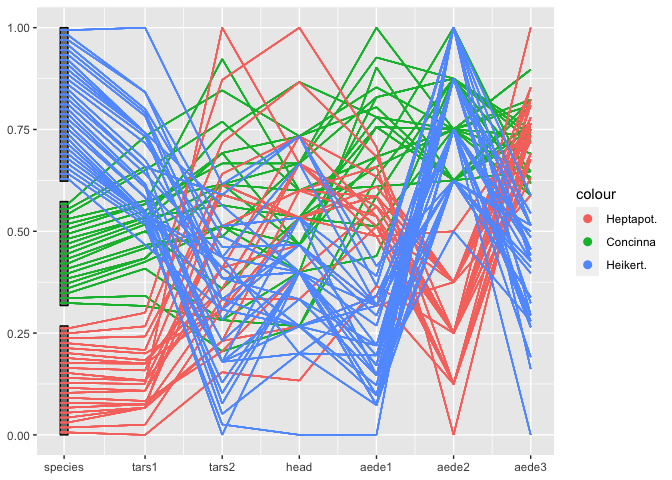
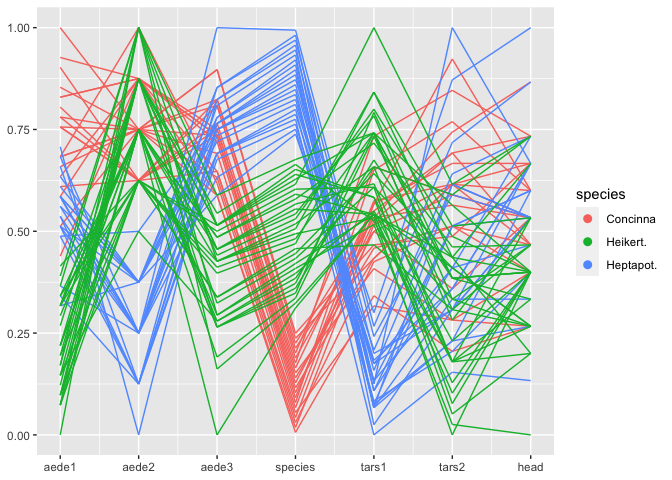
using tidy selection ... for now

diff --git a/README.md b/README.md
@@ -1,7 +1,7 @@
 ---
 title: "ggpcp"
 author: "Yawei Ge, Heike Hofmann"
-date: "August 08, 2019"
+date: "August 09, 2019"
 output: 
   html_document:
     keep_md: true
@@ -65,92 +65,8 @@ select_helpers`
 
 ```r
 flea %>%
-  ggplot(aes(colour = species, vars=product(aede1, aede2, aede3))) + 
+  ggplot(aes(colour = species, vars=product(aede1, aede2, aede1, aede3))) + 
   geom_pcp2()
-```
-
-```
-## Called from: geom_pcp2()
-## debug: ll <- layer(data = data, mapping = mapping, stat = stat, geom = GeomPcp2, 
-##     position = position, show.legend = show.legend, inherit.aes = inherit.aes, 
-##     params = list(method = method, freespace = freespace, boxwidth = boxwidth, 
-##         rugwidth = rugwidth, interwidth = interwidth, breakpoint = breakpoint, 
-##         arrow = arrow, arrow.fill = arrow.fill, lineend = lineend, 
-##         linejoin = linejoin, na.rm = na.rm, ...))
-## debug: defaults <- function(x, y) c(x, y[setdiff(names(y), names(x))])
-## debug: ll$compute_aesthetics = function(self, data, plot) {
-##     browser()
-##     if (!is.null(plot$mapping$vars)) 
-##         plot$mapping <- plot$mapping[-grep("vars", names(plot$mapping))]
-##     if (self$inherit.aes) {
-##         aesthetics <- defaults(self$mapping, plot$mapping)
-##     }
-##     else {
-##         aesthetics <- self$mapping
-##     }
-##     set <- names(aesthetics) %in% names(self$aes_params)
-##     calculated <- ggplot2:::is_calculated_aes(aesthetics)
-##     aesthetics <- aesthetics[!set & !calculated]
-##     if (!is.null(self$geom_params$group)) {
-##         aesthetics[["group"]] <- self$aes_params$group
-##     }
-##     ggplot2:::scales_add_defaults(plot$scales, data, aesthetics, 
-##         plot$plot_env)
-##     evaled <- lapply(aesthetics, rlang::eval_tidy, data = data)
-##     evaled <- compact(evaled)
-##     ggplot2:::warn_for_aes_extract_usage(aesthetics, data[setdiff(names(data), 
-##         "PANEL")])
-##     nondata_cols <- ggplot2:::check_nondata_cols(evaled)
-##     if (length(nondata_cols) > 0) {
-##         msg <- paste0("Aesthetics must be valid data columns. Problematic aesthetic(s): ", 
-##             paste0(vapply(nondata_cols, function(x) {
-##                 paste0(x, " = ", as_label(aesthetics[[x]]))
-##             }, character(1)), collapse = ", "), ". \nDid you mistype the name of a data column or forget to add stat()?")
-##         stop(msg, call. = FALSE)
-##     }
-##     n <- nrow(data)
-##     if (n == 0) {
-##         if (length(evaled) == 0) {
-##             n <- 0
-##         }
-##         else {
-##             n <- max(vapply(evaled, length, integer(1)))
-##         }
-##     }
-##     ggplot2:::check_aesthetics(evaled, n)
-##     if (ggplot2:::empty(data) && n > 0) {
-##         evaled$PANEL <- 1
-##     }
-##     else {
-##         evaled$PANEL <- data$PANEL
-##     }
-##     evaled <- lapply(evaled, unname)
-##     evaled <- ggplot2:::as_gg_data_frame(evaled)
-##     evaled <- ggplot2:::add_group(evaled)
-##     evaled
-## }
-## debug: ll$setup_layer <- function(self, data, plot) {
-##     browser()
-##     aes_vars <- plot$mapping$vars
-##     if (is.null(aes_vars)) 
-##         aes_vars <- self$mapping$vars
-##     if (!is.null(aes_vars)) {
-##         if (!is.null(self$mapping$vars)) 
-##             aes_vars <- rlang::eval_tidy(self$mapping$vars, data = data)
-##         if (!is.null(plot$mapping$vars)) 
-##             aes_vars <- rlang::eval_tidy(plot$mapping$vars, data = data)
-##         var_x <- paste0("x__", as.character(aes_vars))
-##     }
-##     if (is.null(self$mapping)) 
-##         self$mapping <- aes()
-##     for (i in seq_along(var_x)) {
-##         self$mapping[[var_x[i]]] <- aes_vars[[i]]
-##     }
-##     if (!is.null(self$mapping$vars)) 
-##         self$mapping <- self$mapping[-grep("vars", names(self$mapping))]
-##     data
-## }
-## debug: ll
 ```
 
 ![](README_files/figure-html/unnamed-chunk-4-1.png)<!-- -->
@@ -161,25 +77,25 @@ flea %>%
 ## debug: if (is.null(aes_vars)) aes_vars <- self$mapping$vars
 ## debug: if (!is.null(aes_vars)) {
 ##     if (!is.null(self$mapping$vars)) 
-##         aes_vars <- rlang::eval_tidy(self$mapping$vars, data = data)
+##         aes_vars <- tidyselect::vars_select(tbl_vars(data), !!!rlang::eval_tidy(self$mapping$vars))
 ##     if (!is.null(plot$mapping$vars)) 
-##         aes_vars <- rlang::eval_tidy(plot$mapping$vars, data = data)
-##     var_x <- paste0("x__", as.character(aes_vars))
+##         aes_vars <- tidyselect::vars_select(tbl_vars(data), !!!rlang::eval_tidy(plot$mapping$vars))
+##     var_x <- paste0("x__", 1:length(aes_vars), "__", as.character(aes_vars))
 ## }
-## debug: if (!is.null(self$mapping$vars)) aes_vars <- rlang::eval_tidy(self$mapping$vars, 
-##     data = data)
-## debug: if (!is.null(plot$mapping$vars)) aes_vars <- rlang::eval_tidy(plot$mapping$vars, 
-##     data = data)
-## debug: aes_vars <- rlang::eval_tidy(plot$mapping$vars, data = data)
-## debug: var_x <- paste0("x__", as.character(aes_vars))
+## debug: if (!is.null(self$mapping$vars)) aes_vars <- tidyselect::vars_select(tbl_vars(data), 
+##     !!!rlang::eval_tidy(self$mapping$vars))
+## debug: if (!is.null(plot$mapping$vars)) aes_vars <- tidyselect::vars_select(tbl_vars(data), 
+##     !!!rlang::eval_tidy(plot$mapping$vars))
+## debug: aes_vars <- tidyselect::vars_select(tbl_vars(data), !!!rlang::eval_tidy(plot$mapping$vars))
+## debug: var_x <- paste0("x__", 1:length(aes_vars), "__", as.character(aes_vars))
 ## debug: if (is.null(self$mapping)) self$mapping <- aes()
 ## debug: self$mapping <- aes()
 ## debug: for (i in seq_along(var_x)) {
-##     self$mapping[[var_x[i]]] <- aes_vars[[i]]
+##     self$mapping[[var_x[i]]] <- as.symbol(eval(aes_vars[[i]]))
 ## }
-## debug: self$mapping[[var_x[i]]] <- aes_vars[[i]]
-## debug: self$mapping[[var_x[i]]] <- aes_vars[[i]]
-## debug: self$mapping[[var_x[i]]] <- aes_vars[[i]]
+## debug: self$mapping[[var_x[i]]] <- as.symbol(eval(aes_vars[[i]]))
+## debug: self$mapping[[var_x[i]]] <- as.symbol(eval(aes_vars[[i]]))
+## debug: self$mapping[[var_x[i]]] <- as.symbol(eval(aes_vars[[i]]))
 ## debug: if (!is.null(self$mapping$vars)) self$mapping <- self$mapping[-grep("vars", 
 ##     names(self$mapping))]
 ## debug: data
@@ -234,6 +150,13 @@ flea %>%
 ## debug: evaled <- ggplot2:::add_group(evaled)
 ## debug: evaled
 ## Called from: f(...)
+## debug: idx <- grep("x__", names(data))
+## debug: names(data) <- gsub("x__[0-9]+__", "", names(data))
+## debug: data <- data.frame(data, stringsAsFactors = TRUE)
+## debug: data <- gather_pcp2(data, idx)
+## debug: data <- transform_pcp(data, method = params$method)
+## debug: data
+## Called from: f(...)
 ## debug: cat("setup data in geom\n params$method: ")
 ## setup data in geom
 ##  params$method: debug: cat(params$method)
@@ -244,7 +167,118 @@ flea %>%
 ```r
 flea %>%
   ggplot(aes(colour = species)) + 
-  geom_pcp2(aes(vars = product(starts_with("aede"), 1:4)), method = "uniminmax")
+  geom_pcp2(aes(vars = product(starts_with("aede"), 1:4)), 
+            method = "uniminmax")
+```
+
+```
+## Warning: Ignoring unknown aesthetics: vars
+```
+
+```
+## Called from: f(..., self = self)
+## debug: aes_vars <- plot$mapping$vars
+## debug: if (is.null(aes_vars)) aes_vars <- self$mapping$vars
+## debug: aes_vars <- self$mapping$vars
+## debug: if (!is.null(aes_vars)) {
+##     if (!is.null(self$mapping$vars)) 
+##         aes_vars <- tidyselect::vars_select(tbl_vars(data), !!!rlang::eval_tidy(self$mapping$vars))
+##     if (!is.null(plot$mapping$vars)) 
+##         aes_vars <- tidyselect::vars_select(tbl_vars(data), !!!rlang::eval_tidy(plot$mapping$vars))
+##     var_x <- paste0("x__", 1:length(aes_vars), "__", as.character(aes_vars))
+## }
+## debug: if (!is.null(self$mapping$vars)) aes_vars <- tidyselect::vars_select(tbl_vars(data), 
+##     !!!rlang::eval_tidy(self$mapping$vars))
+## debug: aes_vars <- tidyselect::vars_select(tbl_vars(data), !!!rlang::eval_tidy(self$mapping$vars))
+## debug: if (!is.null(plot$mapping$vars)) aes_vars <- tidyselect::vars_select(tbl_vars(data), 
+##     !!!rlang::eval_tidy(plot$mapping$vars))
+## debug: var_x <- paste0("x__", 1:length(aes_vars), "__", as.character(aes_vars))
+## debug: if (is.null(self$mapping)) self$mapping <- aes()
+## debug: for (i in seq_along(var_x)) {
+##     self$mapping[[var_x[i]]] <- as.symbol(eval(aes_vars[[i]]))
+## }
+## debug: self$mapping[[var_x[i]]] <- as.symbol(eval(aes_vars[[i]]))
+## debug: self$mapping[[var_x[i]]] <- as.symbol(eval(aes_vars[[i]]))
+## debug: self$mapping[[var_x[i]]] <- as.symbol(eval(aes_vars[[i]]))
+## debug: self$mapping[[var_x[i]]] <- as.symbol(eval(aes_vars[[i]]))
+## debug: self$mapping[[var_x[i]]] <- as.symbol(eval(aes_vars[[i]]))
+## debug: self$mapping[[var_x[i]]] <- as.symbol(eval(aes_vars[[i]]))
+## debug: self$mapping[[var_x[i]]] <- as.symbol(eval(aes_vars[[i]]))
+## debug: if (!is.null(self$mapping$vars)) self$mapping <- self$mapping[-grep("vars", 
+##     names(self$mapping))]
+## debug: self$mapping <- self$mapping[-grep("vars", names(self$mapping))]
+## debug: data
+## Called from: f(..., self = self)
+## debug: if (!is.null(plot$mapping$vars)) plot$mapping <- plot$mapping[-grep("vars", 
+##     names(plot$mapping))]
+## debug: if (self$inherit.aes) {
+##     aesthetics <- defaults(self$mapping, plot$mapping)
+## } else {
+##     aesthetics <- self$mapping
+## }
+## debug: aesthetics <- defaults(self$mapping, plot$mapping)
+## debug: set <- names(aesthetics) %in% names(self$aes_params)
+## debug: calculated <- ggplot2:::is_calculated_aes(aesthetics)
+## debug: aesthetics <- aesthetics[!set & !calculated]
+## debug: if (!is.null(self$geom_params$group)) {
+##     aesthetics[["group"]] <- self$aes_params$group
+## }
+## debug: ggplot2:::scales_add_defaults(plot$scales, data, aesthetics, 
+##     plot$plot_env)
+## debug: evaled <- lapply(aesthetics, rlang::eval_tidy, data = data)
+## debug: evaled <- compact(evaled)
+## debug: ggplot2:::warn_for_aes_extract_usage(aesthetics, data[setdiff(names(data), 
+##     "PANEL")])
+## debug: nondata_cols <- ggplot2:::check_nondata_cols(evaled)
+## debug: if (length(nondata_cols) > 0) {
+##     msg <- paste0("Aesthetics must be valid data columns. Problematic aesthetic(s): ", 
+##         paste0(vapply(nondata_cols, function(x) {
+##             paste0(x, " = ", as_label(aesthetics[[x]]))
+##         }, character(1)), collapse = ", "), ". \nDid you mistype the name of a data column or forget to add stat()?")
+##     stop(msg, call. = FALSE)
+## }
+## debug: n <- nrow(data)
+## debug: if (n == 0) {
+##     if (length(evaled) == 0) {
+##         n <- 0
+##     }
+##     else {
+##         n <- max(vapply(evaled, length, integer(1)))
+##     }
+## }
+## debug: ggplot2:::check_aesthetics(evaled, n)
+## debug: if (ggplot2:::empty(data) && n > 0) {
+##     evaled$PANEL <- 1
+## } else {
+##     evaled$PANEL <- data$PANEL
+## }
+## debug: evaled$PANEL <- data$PANEL
+## debug: evaled <- lapply(evaled, unname)
+## debug: evaled <- ggplot2:::as_gg_data_frame(evaled)
+## debug: evaled <- ggplot2:::add_group(evaled)
+## debug: evaled
+## Called from: f(...)
+## debug: idx <- grep("x__", names(data))
+## debug: names(data) <- gsub("x__[0-9]+__", "", names(data))
+## debug: data <- data.frame(data, stringsAsFactors = TRUE)
+## debug: data <- gather_pcp2(data, idx)
+```
+
+```
+## Warning: attributes are not identical across measure variables;
+## they will be dropped
+```
+
+![](README_files/figure-html/unnamed-chunk-5-1.png)<!-- -->
+
+```
+## debug: data <- transform_pcp(data, method = params$method)
+## debug: data
+## Called from: f(...)
+## debug: cat("setup data in geom\n params$method: ")
+## setup data in geom
+##  params$method: debug: cat(params$method)
+## uniminmaxdebug: data
 ```
 
 
